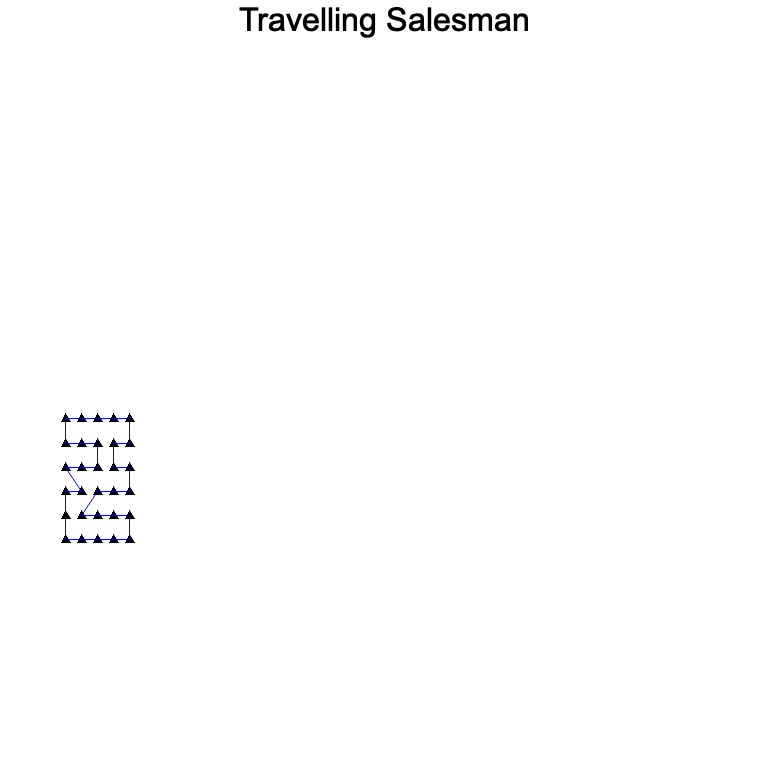
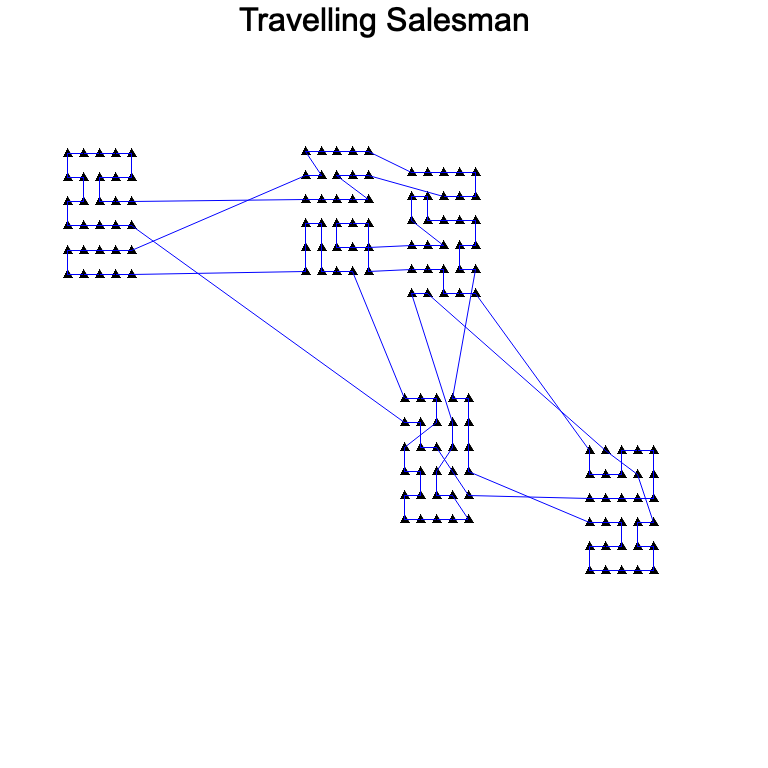
stringing blocks of panels together

diff --git a/src/block.rs b/src/block.rs
@@ -1,3 +1,8 @@
+use std::ops::Range;
+
+use rand::Rng;
+
+#[derive(Debug, Clone, PartialEq)]
 pub struct Block {
     pub n_rows: usize,
     pub n_cols: usize,
@@ -9,7 +14,6 @@ pub struct Block {
     pub max_y: f32,
     pub width: f32,
     pub height: f32,
-    pub pos_top_left: (f32, f32),
     pub pos_center: (f32, f32),
     pub points: Vec<(f32, f32)>,
 }
@@ -20,15 +24,14 @@ impl Block {
         n_cols: usize,
         delta_row: f32,
         delta_col: f32,
-        pos_top_left: (f32, f32),
+        pos_center: (f32, f32),
     ) -> Self {
         let width = delta_row * n_rows as f32;
         let height = delta_col * n_cols as f32;
-        let min_x = pos_top_left.0;
-        let min_y = pos_top_left.1;
-        let max_x = pos_top_left.0 + width;
-        let max_y = pos_top_left.1 + height;
-        let pos_center = (min_x + width / 2.0, min_y + height / 2.0);
+        let min_x = pos_center.0 - width / 2.0;
+        let min_y = pos_center.1 - height / 2.0;
+        let max_x = pos_center.0 + width / 2.0;
+        let max_y = pos_center.1 + height / 2.0;
         let mut points = Vec::new();
         for i in 0..n_rows {
             for j in 0..n_cols {
@@ -48,9 +51,46 @@ impl Block {
             max_y,
             width,
             height,
-            pos_top_left,
             pos_center,
             points,
         }
     }
+
+    pub fn new_rand(
+        n_rows: usize,
+        n_cols: usize,
+        delta_row: f32,
+        delta_col: f32,
+        x_range: Range<f32>,
+        y_range: Range<f32>,
+    ) -> Block {
+        let width = delta_row * n_rows as f32;
+        let height = delta_col * n_cols as f32;
+        let x_min = x_range.start + width / 2.0;
+        let x_max = x_range.end - width / 2.0;
+        let y_min = y_range.start + height / 2.0;
+        let y_max = y_range.end - height / 2.0;
+        let center_x = rand::thread_rng().gen_range(x_min..x_max);
+        let center_y = rand::thread_rng().gen_range(y_min..y_max);
+        let pos_center = (center_x, center_y);
+        Block::new(n_rows, n_cols, delta_row, delta_col, pos_center)
+    }
 }
+
+pub fn overlapping(block0: &Block, block1: &Block) -> bool {
+    let min_x = block1.min_x;
+    let min_y = block1.min_y;
+    let max_x = block1.max_x;
+    let max_y = block1.max_y;
+    let p = (block0.min_x, block0.min_y);
+    let q = (block0.max_x, block0.max_y);
+    let r = (block0.min_x, block0.max_y);
+    let s = (block0.max_x, block0.min_y);
+    min_x <= p.0 && p.0 <= max_x && min_y <= p.1 && p.1 <= max_y
+        || min_x <= q.0 && q.0 <= max_x && min_y <= q.1 && q.1 <= max_y
+        || min_x <= r.0 && r.0 <= max_x && min_y <= r.1 && r.1 <= max_y
+        || min_x <= s.0 && s.0 <= max_x && min_y <= s.1 && s.1 <= max_y
+}
+
+#[cfg(test)]
+mod test_block;

diff --git a/src/example.rs b/src/example.rs
@@ -26,14 +26,24 @@ pub fn rand_points(num_points: usize) -> Vec<(f32, f32)> {
     points
 }
 
-pub fn rand_block(n_rows: usize, n_cols: usize, delta_row: f32, delta_col: f32) -> Block {
-    let width = delta_row * n_rows as f32;
-    let height = delta_col * n_cols as f32;
-    let max_x = 1.0 - width as f32;
-    let max_y = 1.0 - height as f32;
-    let top_left_x = rand::thread_rng().gen_range(-1.0..max_x);
-    let top_left_y = rand::thread_rng().gen_range(-1.0..max_y);
-    let top_left = (top_left_x, top_left_y);
-    let block = Block::new(n_rows, n_cols, delta_row, delta_col, top_left);
-    block
+pub fn rand_n_blocks(
+    n_rows: usize,
+    n_cols: usize,
+    delta_row: f32,
+    delta_col: f32,
+    n: usize,
+) -> Vec<Block> {
+    let mut blocks = Vec::new();
+    while blocks.len() < n {
+        let mut new_block;
+        loop {
+            new_block = Block::new_rand(n_rows, n_cols, delta_row, delta_col, -1.0..1.0, -1.0..1.0);
+            let overlapped = blocks.iter().any(|block| overlapping(block, &new_block));
+            if !overlapped {
+                blocks.push(new_block);
+                break;
+            }
+        }
+    }
+    blocks
 }

diff --git a/src/block/test_block.rs b/src/block/test_block.rs
@@ -1,0 +1,18 @@
+use super::*;
+
+#[test]
+fn test_overlapping() {
+    let block0 = Block::new(10, 10, 0.1, 0.1, (0.0, 0.0));
+    let block0_copy = Block::new(10, 10, 0.1, 0.1, (0.0, 0.0));
+    let block1 = Block::new(10, 10, 0.1, 0.1, (1.0, 0.0));
+    let block2 = Block::new(10, 10, 0.1, 0.1, (1.1, 0.0));
+    let block3 = Block::new(10, 10, 0.1, 0.1, (0.9, 0.9));
+    let block4 = Block::new(10, 10, 0.1, 0.1, (-0.9, -0.9));
+    let block5 = Block::new(10, 10, 0.1, 0.1, (-0.9, 0.9));
+    assert!(overlapping(&block0, &block0_copy));
+    assert!(overlapping(&block0, &block1));
+    assert!(!overlapping(&block0, &block2));
+    assert!(overlapping(&block0, &block3));
+    assert!(overlapping(&block0, &block4));
+    assert!(overlapping(&block0, &block5));
+}

diff --git a/src/main.rs b/src/main.rs
@@ -5,8 +5,15 @@ use salesman::anneal::*;
 
 fn main() {
     // Solve travelling salesman.
-    let rand_block = rand_block(5, 6, 0.05, 0.08);
-    let rand_points = rand_block.points;
+    let rand_blocks = rand_n_blocks(5, 6, 0.05, 0.08, 5);
+    let rand_points;
+    {
+        let mut temp_points = Vec::new();
+        for block in rand_blocks {
+            temp_points.extend_from_slice(&block.points);
+        }
+        rand_points = temp_points;
+    }
     let points = shortest_path(&rand_points, 1);
     let salesman_loop;
     {
